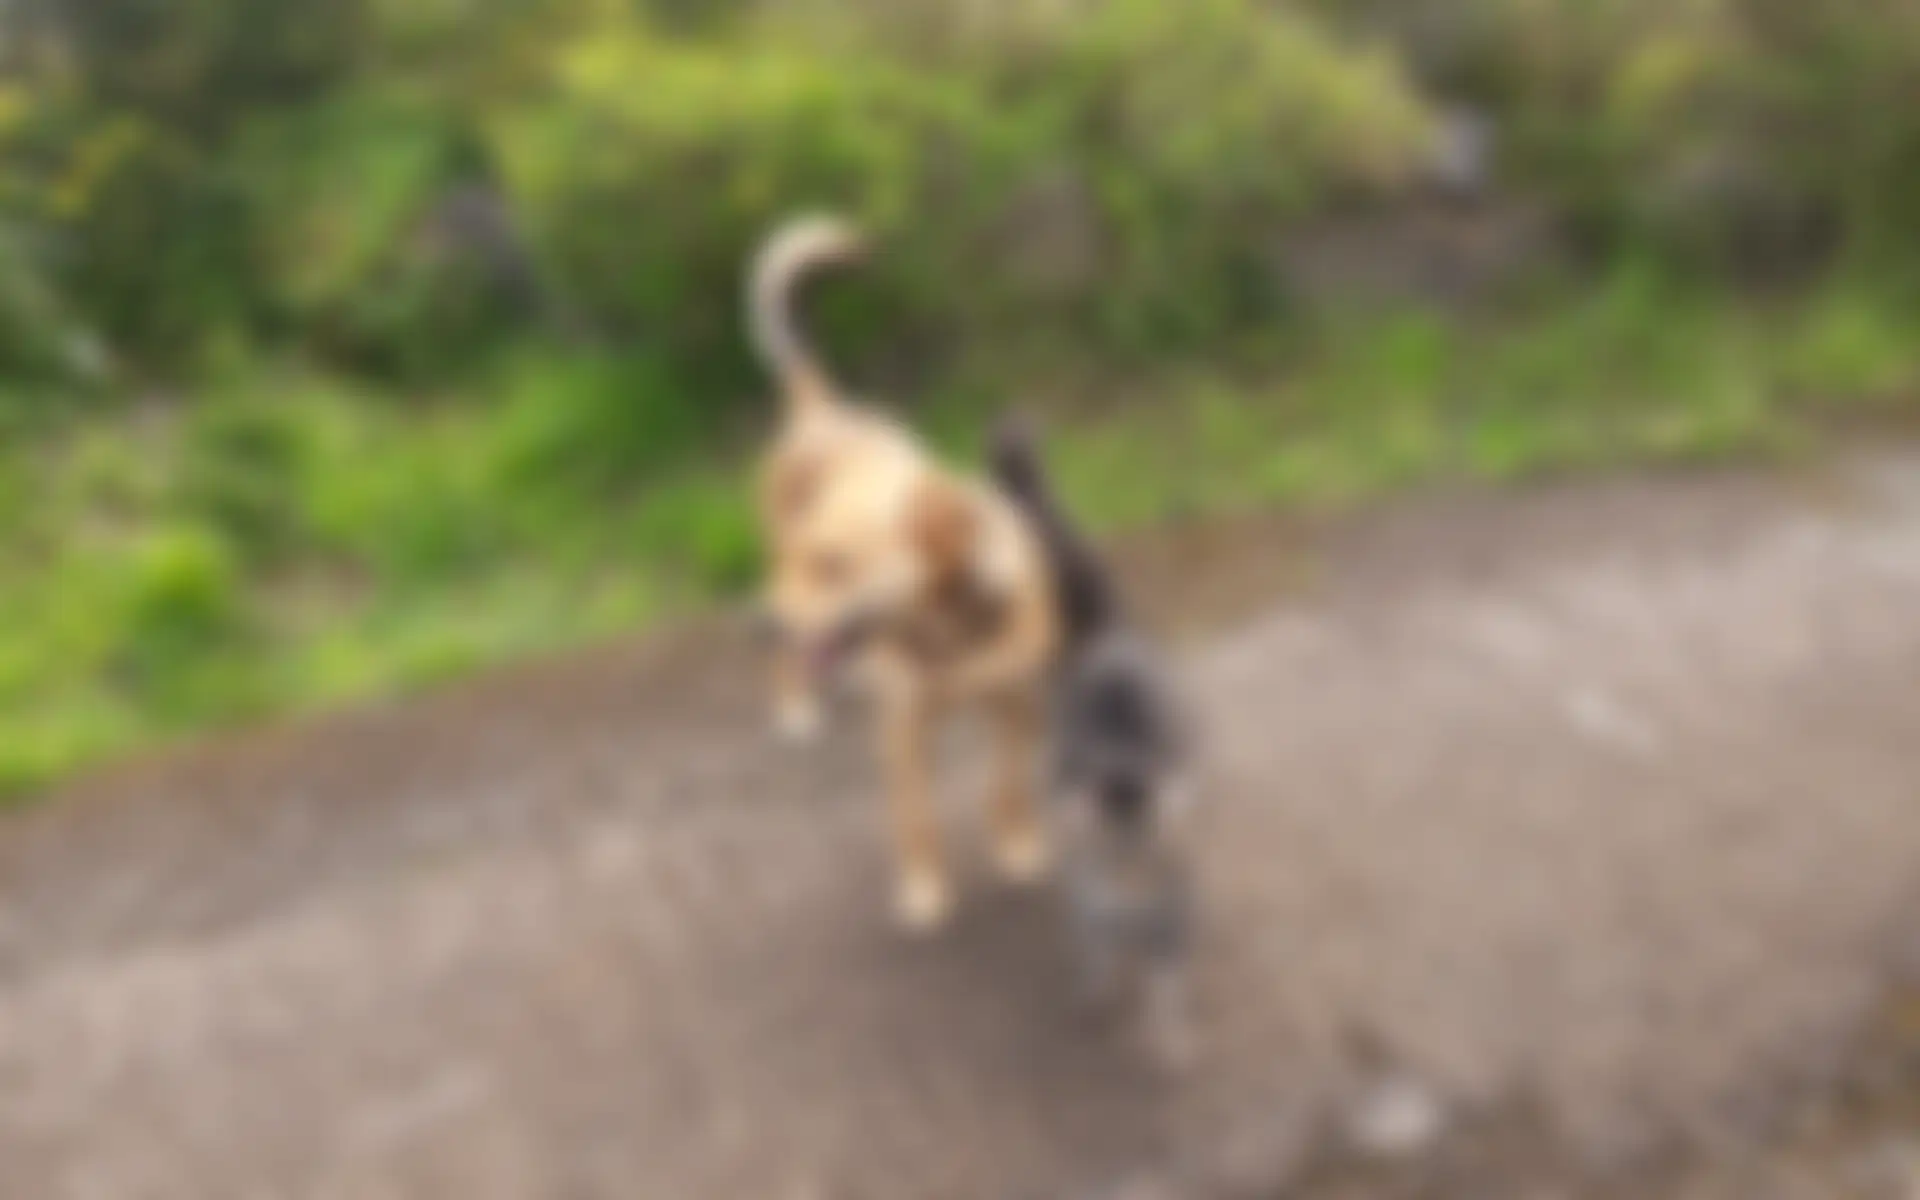
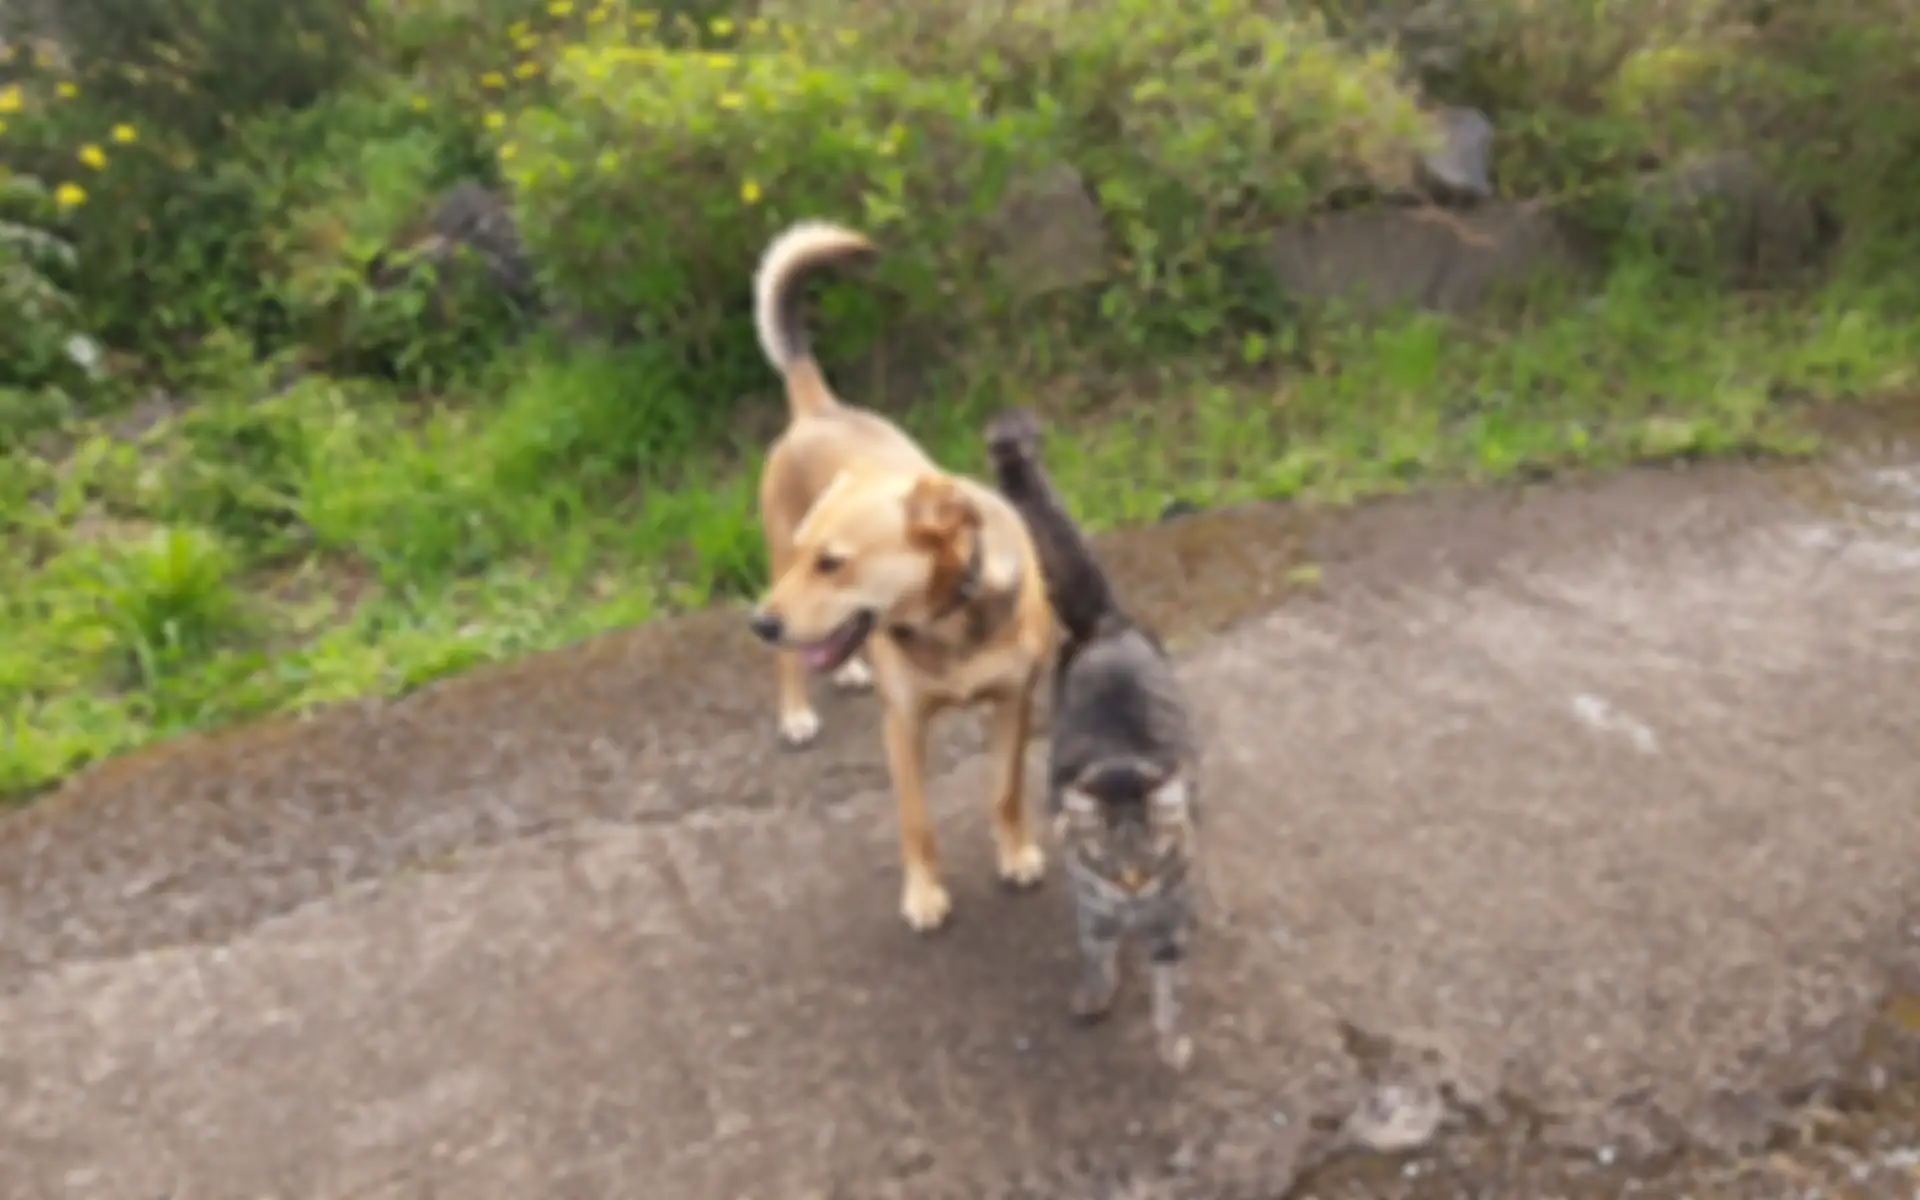
Make the pets in the backdrops recognisable
Blur reduced from a heavy wash to a soft focus, and the veil is lighter
at the top, so you can tell each photo shows a dog or a cat.

diff --git a/app/globals.css b/app/globals.css
@@ -184,8 +184,8 @@
 .backdrop-veil {
   background: linear-gradient(
     to bottom,
-    color-mix(in srgb, var(--background) 42%, transparent),
-    color-mix(in srgb, var(--background) 62%, transparent) 45%,
-    color-mix(in srgb, var(--background) 74%, transparent)
+    color-mix(in srgb, var(--background) 30%, transparent),
+    color-mix(in srgb, var(--background) 52%, transparent) 45%,
+    color-mix(in srgb, var(--background) 68%, transparent)
   );
 }
